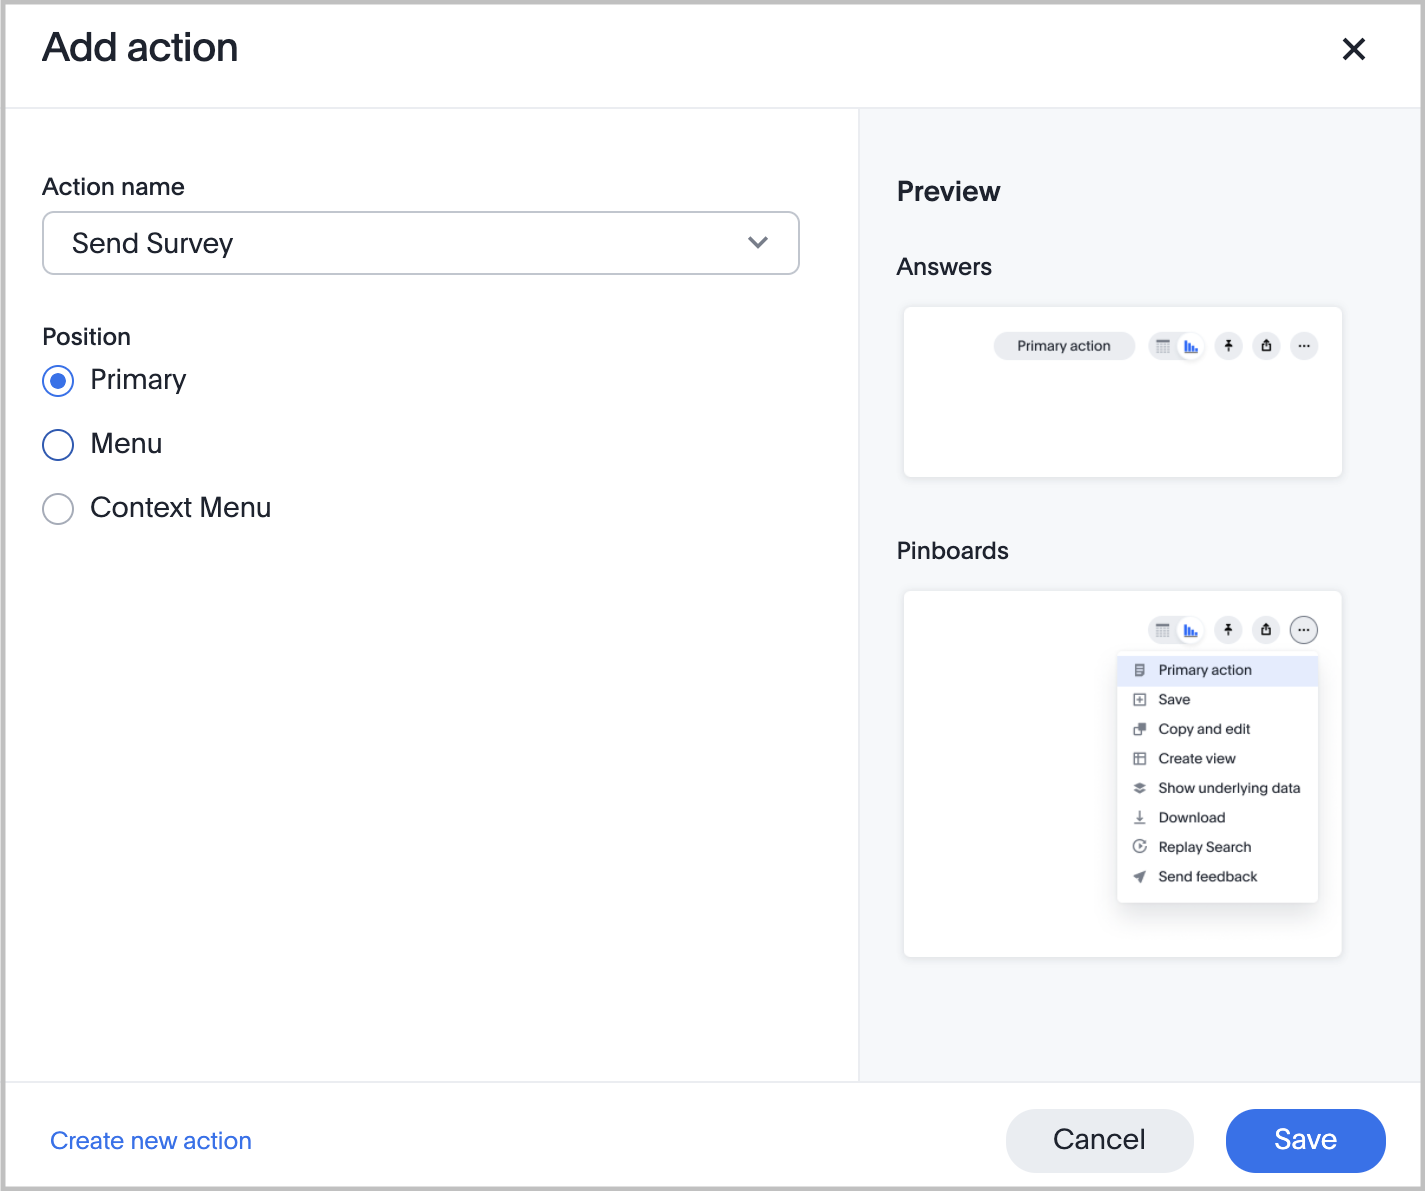
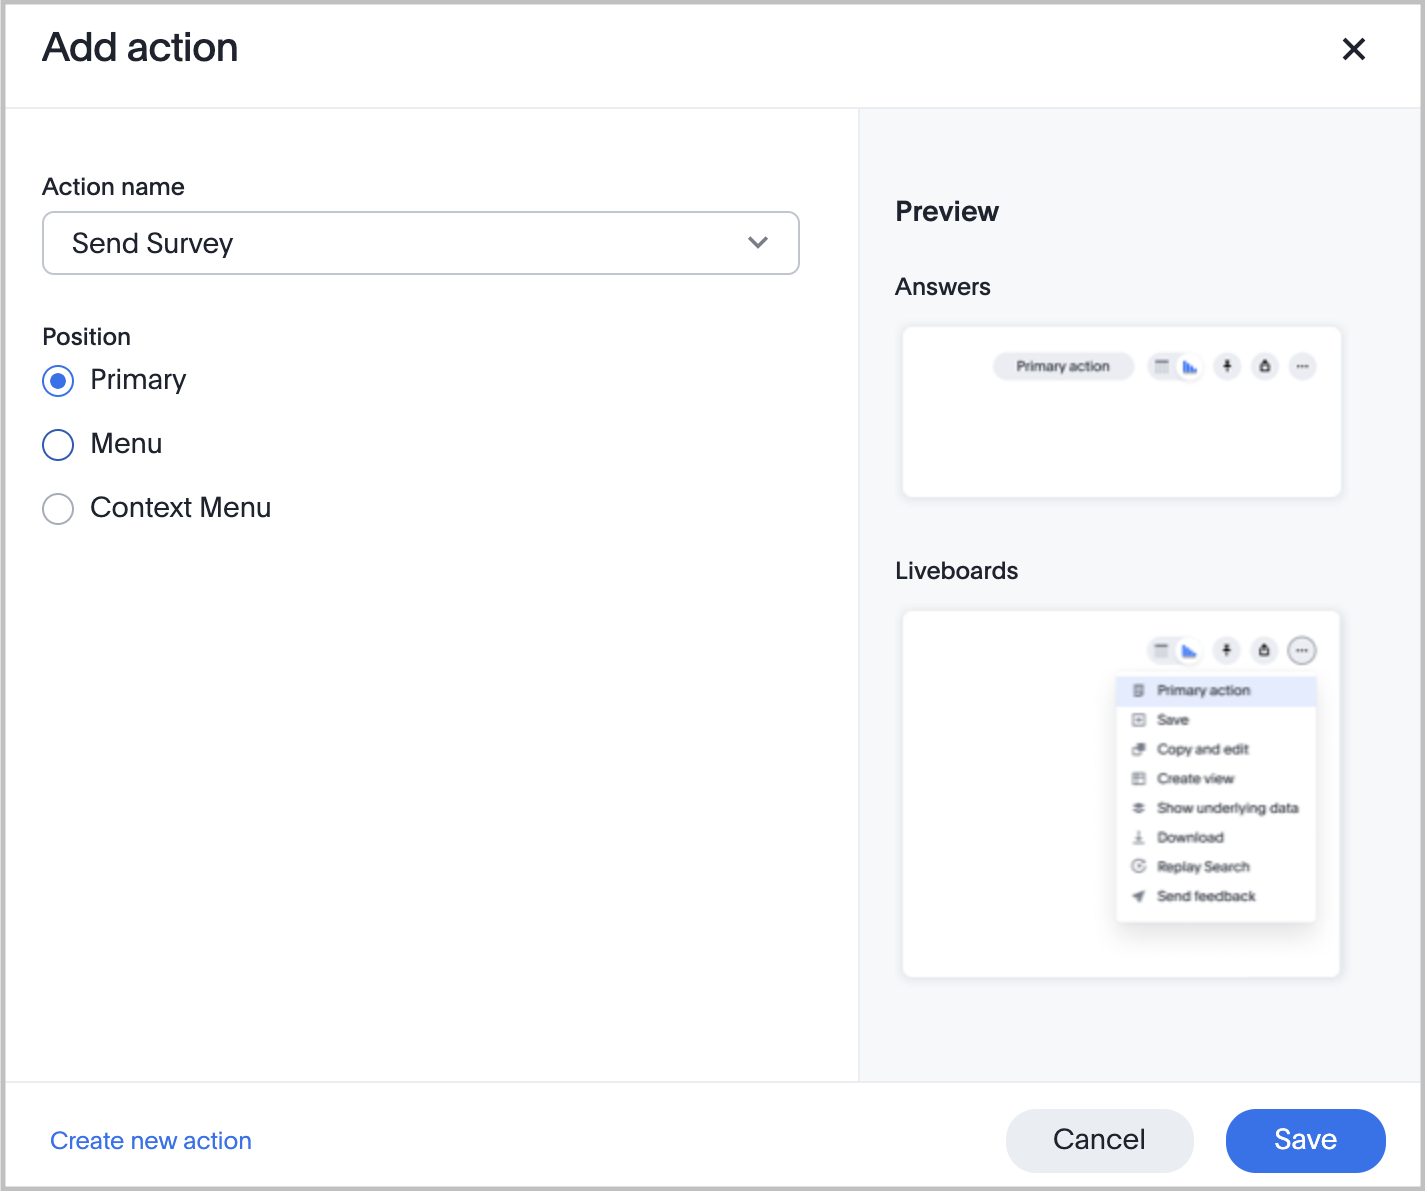
what's new, rebranding changes, and other updates

diff --git a/docs/src/assets/styles/variables.scss b/docs/src/assets/styles/variables.scss
@@ -40,6 +40,7 @@ $font-size-404: 1.25rem;
 $padding-md: 24px;
 $margin-lg: 35px;
 $margin-md: 24px;
+$margin-sm: 16px;
 $margin-xs: 5px;
 $padding-xs: 5px;
 $padding-sm: 10px;
@@ -59,7 +60,7 @@ $width-search-icon: 16px;
 $height-search-input: 32px;
 $margin-search-result: 16px;
 $padding-left-search-input: 36px;
-$font-family-code: Consolas, Monaco, monospace;
+$font-family-code: Roboto,Consolas,Monaco,monospace;
 $font-family-doc: Optimo-Plain;
 $font-family-back-button: Optimo-Plain;
 $width-back-button: 32px;

diff --git a/docs/src/assets/styles/index.scss b/docs/src/assets/styles/index.scss
@@ -195,7 +195,15 @@ button {
     color: var(--primary-color);
 
 }
+ 
+summary.title  {
+    font-size: $font-size-h5;
+    margin-top: $margin-sm;
+    font-weight: $font-weight-normal;
+    line-height: $line-height-doc;
+    color: var(--primary-color);
 
+}
 
 
 /* Div box style end */
